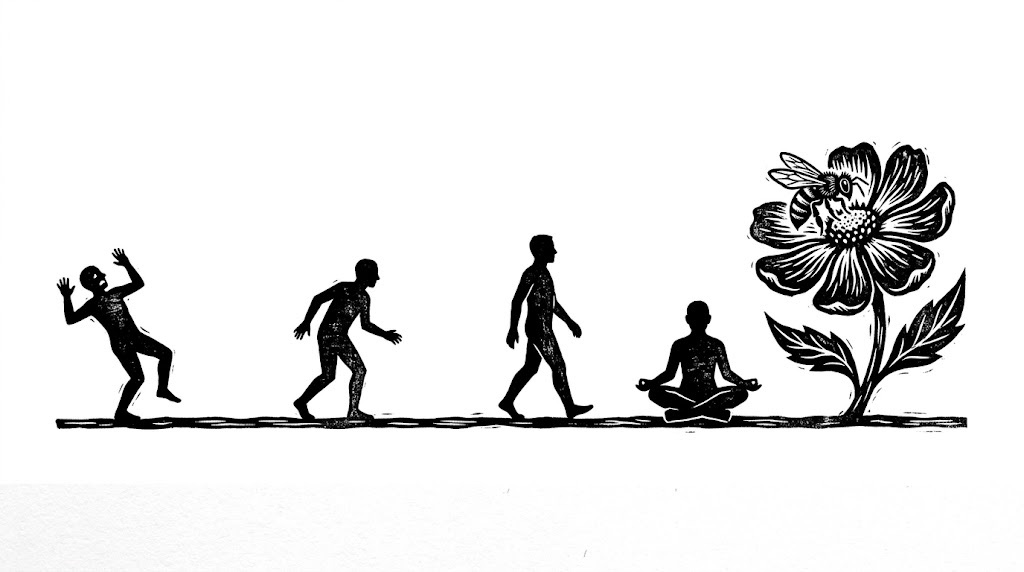
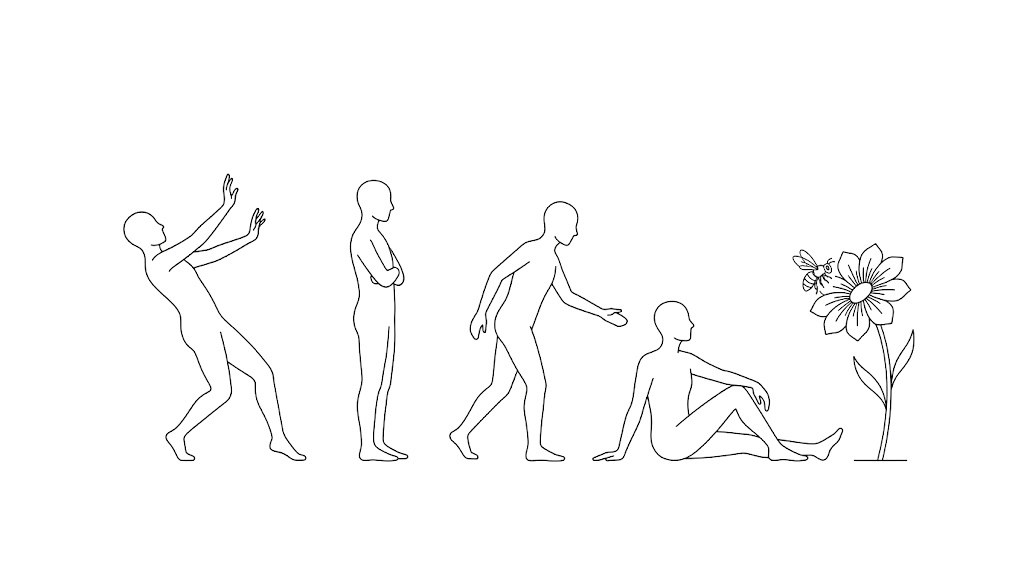
barrett 三張意象圖換新風格：代針筆線稿＋白點校正；標籤兩處避讓；hlver 4→5
Claude-Session: https://claude.ai/code/session_01JYoxEjGrD6CpF2TgmSnt6x

diff --git a/entries/barrett-predictive-brain.html b/entries/barrett-predictive-brain.html
@@ -20,7 +20,7 @@
 <meta name="apple-mobile-web-app-title" content="閱讀庫">
 <meta name="robots" content="noindex, nofollow">
 </head>
-<body data-entry="barrett-predictive-brain" data-video="rCtvAvZtJyE" data-hlver="4">
+<body data-entry="barrett-predictive-brain" data-video="rCtvAvZtJyE" data-hlver="5">
 <div class="progress"><div class="bar"></div></div>
 
 <div class="topbar caps">
@@ -224,10 +224,10 @@
       <div class="fl caps">圖解 · 身體預算：一池水、三條管</div>
       <div class="dgimg">
         <img src="../assets/img/diagram-barrett-budget.jpg" alt="一個水位偏低的儲水槽分出三條水管：左管水流穩定、杯子八分滿；中管被掐細只滴出一滴、杯子近乎全空；右管最粗、水流大到杯子接不住、灑滿一地">
-        <span class="lbl" style="left:8%;top:8%">總量有天花板，而且正在變低</span>
+        <span class="lbl" style="left:8%;top:8%;max-width:24%">總量有天花板，<br>而且正在變低</span>
         <span class="lbl" style="left:6%;bottom:12%">維持生命：<br>最後才被砍</span>
         <span class="lbl" style="left:33%;bottom:1%">生長修復與學習：最先被抽乾</span>
-        <span class="lbl" style="right:4%;top:66%">費力的事：<br>慢性壓力掛在這，<br>大部分的水從這流走</span>
+        <span class="lbl" style="right:2%;top:30%;max-width:20%">費力的事：<br>慢性壓力掛在這，<br>大部分的水從這流走</span>
       </div>
       <figcaption>三筆開銷共用同一池水。「費力的事」那條管一粗（慢性壓力、傷病），最先斷水的是中間那管——而「用預測誤差更新自己」正是學習、走的就是中間那管。這就是為什麼卡住的人不是不想改，是大腦沒預算更新</figcaption>
     </figure>
